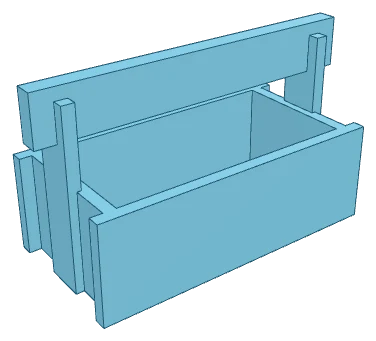
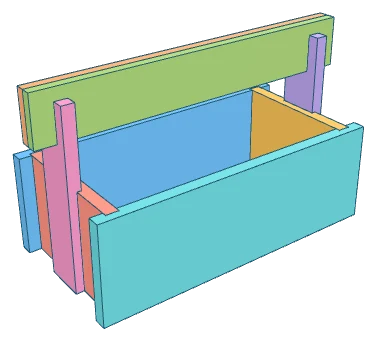
Preserve individual tote piece colors in the CAD viewer

diff --git a/src/components/cad/ParametricControls.tsx b/src/components/cad/ParametricControls.tsx
@@ -1,6 +1,7 @@
 import { useEffect, useRef, useState } from 'react';
 import type { CadEntry } from '../../misc';
 import { compileJob } from './compiler';
+import type { CompiledModel } from './compiler.worker';
 import { configuredSource, defaults, parameterLabel, parseParameters, type Parameter, type Values } from './parameters';
 
 type Entry = CadEntry & { href: string; source: string };
@@ -8,7 +9,7 @@ interface Source { text: string; parameters: Parameter[] }
 interface Result { values: Values; stl: string; source: string; output: string }
 
 export default function ParametricControls({ entry, available, onCompiled }: {
-  entry: Entry; available: boolean; onCompiled: (stl: ArrayBuffer) => void;
+  entry: Entry; available: boolean; onCompiled: (model: CompiledModel) => void;
 }) {
   const [source, setSource] = useState<Source | null>(null);
   const [draft, setDraft] = useState<Values>({});
@@ -16,12 +17,14 @@ export default function ParametricControls({ entry, available, onCompiled }: {
   const [phase, setPhase] = useState('Loading parameters…');
   const [error, setError] = useState('');
   const [retry, setRetry] = useState(0);
+  const [initialModel, setInitialModel] = useState<CompiledModel | null>(null);
   const job = useRef<AbortController | null>(null);
   const draftValues = useRef<Values>({});
   const edited = useRef(false);
   const sourceUrl = `${entry.href}${entry.source}`;
   const modelUrl = `${entry.href}${entry.model}`;
   const outputLabel = entry.customizer?.outputLabel;
+  const hasParts = !!entry.customizer?.parts?.length;
 
   useEffect(() => {
     const controller = new AbortController();
@@ -40,11 +43,12 @@ export default function ParametricControls({ entry, available, onCompiled }: {
         // Entries with textual output also compute their default cut list in the
         // worker. The committed fallback mesh stays visible while this runs.
         let output = '';
-        if (outputLabel) {
+        if (outputLabel || hasParts) {
           const compiled = await compileJob({ kind: 'compile', source: text }, controller.signal);
           controller.signal.throwIfAborted();
           if (compiled.kind !== 'model') return;
           output = compiled.output;
+          setInitialModel(compiled);
         }
         setSource({ text, parameters });
         draftValues.current = values;
@@ -60,7 +64,14 @@ export default function ParametricControls({ entry, available, onCompiled }: {
     };
     void load();
     return () => { controller.abort(); job.current?.abort(); };
-  }, [sourceUrl, modelUrl, outputLabel, retry]);
+  }, [sourceUrl, modelUrl, outputLabel, hasParts, retry]);
+
+  useEffect(() => {
+    if (!available || !initialModel) return;
+    try { onCompiled(initialModel); }
+    catch (failure) { setError(failure instanceof Error ? failure.message : 'The colored model could not load.'); }
+    setInitialModel(null);
+  }, [available, initialModel, onCompiled]);
 
   useEffect(() => () => {
     if (result?.stl.startsWith('blob:')) URL.revokeObjectURL(result.stl);
@@ -99,7 +110,7 @@ export default function ParametricControls({ entry, available, onCompiled }: {
         if (!controller.signal.aborted) setPhase('Updating model…');
       });
       if (controller.signal.aborted || compiled.kind !== 'model') return;
-      onCompiled(compiled.stl);
+      onCompiled(compiled);
       setResult({ values: { ...values },
         stl: URL.createObjectURL(new Blob([compiled.stl], { type: 'model/stl' })),
         source: URL.createObjectURL(new Blob([text], { type: 'text/plain' })),

diff --git a/src/components/cad/displayMesh.ts b/src/components/cad/displayMesh.ts
@@ -1,0 +1,51 @@
+import { BufferAttribute, BufferGeometry, Color, SRGBColorSpace } from 'three';
+import type { PartColor } from '../../misc';
+
+interface Group { start: number; count: number; color: number[]; mode: string }
+export interface DisplayMesh { positions: Float32Array; normals: Float32Array; groups: Group[] }
+
+// The engine's preview ranges count vertices, not floats or triangles. Keep
+// these separate from the boolean-unioned mesh used for STL downloads.
+export function displayMesh(positions: Float32Array, normals: Float32Array, json: string): DisplayMesh | undefined {
+  if (!positions.length) return;
+  const groups: unknown = JSON.parse(json);
+  let end = 0;
+  if (positions.length % 9 || normals.length !== positions.length ||
+      !positions.every(Number.isFinite) || !normals.every(Number.isFinite) ||
+      !Array.isArray(groups) || !groups.length || !groups.every((group: unknown) => {
+        if (typeof group !== 'object' || !group ||
+            !('start' in group) || group.start !== end ||
+            !('count' in group) || typeof group.count !== 'number' || !Number.isInteger(group.count) || group.count <= 0 || group.count % 3 ||
+            !('mode' in group) || group.mode !== 'solid' ||
+            !('color' in group) || !Array.isArray(group.color) || group.color.length !== 4 ||
+            !group.color.every((value: unknown) => typeof value === 'number' && Number.isFinite(value) && value >= 0 && value <= 1) || group.color[3] !== 1) return false;
+        end += group.count;
+        return true;
+      }) || end * 3 !== positions.length) throw new Error('Unsupported colored model geometry.');
+  return { positions, normals, groups: groups as Group[] };
+}
+
+export function coloredGeometry(display: DisplayMesh, palette: PartColor[] = []) {
+  const geometry = new BufferGeometry();
+  geometry.setAttribute('position', new BufferAttribute(display.positions, 3));
+  geometry.setAttribute('normal', new BufferAttribute(display.normals, 3));
+  const light = new Float32Array(display.positions.length);
+  const dark = new Float32Array(display.positions.length);
+  for (const group of display.groups) {
+    const base = new Color().setRGB(group.color[0], group.color[1], group.color[2], SRGBColorSpace);
+    // Match source RGB after the engine's float conversion.
+    const part = palette.find(({ color }) => {
+      const candidate = new Color(color);
+      return Math.abs(candidate.r - base.r) + Math.abs(candidate.g - base.g) + Math.abs(candidate.b - base.b) < 0.0001;
+    });
+    const night = part ? new Color(part.darkColor) : base;
+    for (let vertex = group.start; vertex < group.start + group.count; vertex++) {
+      base.toArray(light, vertex * 3);
+      night.toArray(dark, vertex * 3);
+    }
+  }
+  geometry.setAttribute('colorLight', new BufferAttribute(light, 3));
+  geometry.setAttribute('colorDark', new BufferAttribute(dark, 3));
+  geometry.setAttribute('color', geometry.getAttribute('colorLight'));
+  return geometry;
+}

diff --git a/src/components/cad/CadViewer.tsx b/src/components/cad/CadViewer.tsx
@@ -1,8 +1,10 @@
-import { useEffect, useRef, useState } from 'react';
+import { useCallback, useEffect, useRef, useState, type CSSProperties } from 'react';
 import { STLLoader } from 'three/addons/loaders/STLLoader.js';
 import type { CadEntry } from '../../misc';
 import { createScene, type RenderMode, type SectionAxis } from './scene';
 import ParametricControls from './ParametricControls';
+import { coloredGeometry } from './displayMesh';
+import type { CompiledModel } from './compiler.worker';
 import './cad.css';
 
 type Viewer = ReturnType<typeof createScene>;
@@ -68,13 +70,13 @@ export default function CadViewer({ entry }: { entry: CadEntry & { href: string 
     setFlipped(false);
     viewer?.reset();
   };
-  const onCompiled = (stl: ArrayBuffer) => {
+  const onCompiled = useCallback((model: CompiledModel) => {
     if (!viewer) throw new Error('The 3D view is unavailable.');
-    const geometry = new STLLoader().parse(stl);
+    const geometry = model.display ? coloredGeometry(model.display, entry.customizer?.parts) : new STLLoader().parse(model.stl);
     try { viewer.replaceGeometry(geometry); }
     catch (error) { geometry.dispose(); throw error; }
     setRevision((revision) => revision + 1);
-  };
+  }, [viewer, entry.customizer?.parts]);
 
   return (
     <section className="cad" aria-label="CAD model">
@@ -120,6 +122,11 @@ export default function CadViewer({ entry }: { entry: CadEntry & { href: string 
             </div>}
           </fieldset>
           {viewer && <p className="cad-dimensions">Bounds: {viewer.size.x.toFixed(1)} × {viewer.size.y.toFixed(1)} × {viewer.size.z.toFixed(1)} mm (X × Y × Z)</p>}
+          {entry.customizer?.parts && <ul className="cad-part-key" aria-label="Part colors">
+            {entry.customizer.parts.map((part) => <li key={part.id}>
+              <i className="cad-part-swatch" aria-hidden="true" style={{ '--part-color': part.color, '--part-dark-color': part.darkColor } as CSSProperties} />{part.label}
+            </li>)}
+          </ul>}
           {!entry.customizer && <div className="cad-downloads">
             <a href={modelUrl} download>Download STL ↓</a>
             {entry.source && <a href={`${entry.href}${entry.source}`} download>OpenSCAD source ↓</a>}

diff --git a/src/misc.ts b/src/misc.ts
@@ -10,6 +10,8 @@ interface DiagramEntry extends EntryBase {
   type?: 'diagram';
 }
 
+export interface PartColor { id: string; label: string; color: string; darkColor: string }
+
 export interface CadEntry extends EntryBase {
   type: 'cad';
   model: string;
@@ -19,6 +21,7 @@ export interface CadEntry extends EntryBase {
   customizer?: {
     units?: 'mm' | 'inches';
     outputLabel?: string;
+    parts?: PartColor[];
     conditions?: Record<string, { parameter: string; value: string | number | boolean }>;
   };
   attribution?: { text: string; url: string };
@@ -33,6 +36,13 @@ function validCustomizer(value: unknown): boolean {
   if ('units' in value && value.units !== undefined && value.units !== 'mm' && value.units !== 'inches') return false;
   if ('outputLabel' in value && value.outputLabel !== undefined &&
       (typeof value.outputLabel !== 'string' || !value.outputLabel.trim())) return false;
+  if ('parts' in value && value.parts !== undefined &&
+      (!Array.isArray(value.parts) || !value.parts.every((part: unknown) =>
+        typeof part === 'object' && part !== null &&
+        'id' in part && typeof part.id === 'string' && /^[a-z0-9-]+$/.test(part.id) &&
+        'label' in part && typeof part.label === 'string' && !!part.label.trim() &&
+        'color' in part && typeof part.color === 'string' && /^#[0-9a-f]{6}$/i.test(part.color) &&
+        'darkColor' in part && typeof part.darkColor === 'string' && /^#[0-9a-f]{6}$/i.test(part.darkColor)))) return false;
   if (!('conditions' in value) || value.conditions === undefined) return true;
   if (typeof value.conditions !== 'object' || value.conditions === null) return false;
   return Object.entries(value.conditions).every(([name, condition]: [string, unknown]) =>

diff --git a/src/components/cad/compiler.worker.ts b/src/components/cad/compiler.worker.ts
@@ -1,10 +1,12 @@
 import init, { parameters, render } from 'openrscad-engine/web';
 import wasmUrl from 'openrscad-engine/openrscad_bg.wasm?url';
 import { binaryStl } from './stl';
+import { displayMesh, type DisplayMesh } from './displayMesh';
 
 export interface CompileRequest { kind: 'parameters' | 'compile'; source: string }
+export interface CompiledModel { kind: 'model'; stl: ArrayBuffer; output: string; display?: DisplayMesh }
 export type CompileResponse = { kind: 'ready' } | { kind: 'parameters'; json: string } |
-  { kind: 'model'; stl: ArrayBuffer; output: string } | { kind: 'error'; message: string };
+  CompiledModel | { kind: 'error'; message: string };
 
 // Use the published raw API: 0.14.0's convenience wrapper has a mismatched
 // render_with_files signature. A fresh worker bounds each job's WASM memory.
@@ -23,7 +25,8 @@ self.onmessage = async ({ data }: MessageEvent<CompileRequest>) => {
       if (result.warnings) throw new Error(result.warnings);
       if (result.is_2d) throw new Error('This viewer requires a solid 3D model.');
       const stl = binaryStl(result.positions, result.normals);
-      self.postMessage({ kind: 'model', stl, output: result.echo } satisfies CompileResponse, { transfer: [stl] });
+      const display = displayMesh(result.preview_positions, result.preview_normals, result.groups);
+      self.postMessage({ kind: 'model', stl, output: result.echo, display } satisfies CompileResponse, { transfer: [stl] });
     } finally {
       result.free();
     }

diff --git a/src/components/cad/scene.ts b/src/components/cad/scene.ts
@@ -93,7 +93,11 @@ export function createScene(host: HTMLElement, geometry: THREE.BufferGeometry) {
 
   const setTheme = () => {
     const style = getComputedStyle(host);
-    solidMaterial.color.set(style.getPropertyValue('--cad-body').trim());
+    const colored = geometry.hasAttribute('colorLight');
+    solidMaterial.vertexColors = colored;
+    if (colored) geometry.setAttribute('color', geometry.getAttribute(document.documentElement.classList.contains('dark') ? 'colorDark' : 'colorLight'));
+    solidMaterial.color.set(colored ? '#ffffff' : style.getPropertyValue('--cad-body').trim());
+    solidMaterial.needsUpdate = true;
     edgeMaterial.color.set(style.getPropertyValue('--cad-edge').trim());
     capMaterial.color.set(style.getPropertyValue('--cad-section').trim());
     render();
@@ -166,6 +170,7 @@ export function createScene(host: HTMLElement, geometry: THREE.BufferGeometry) {
     controls.minDistance = radius * 0.25;
     controls.maxDistance = radius * 15;
     // Preserve camera/pan/zoom; section percentage follows the new model bounds.
+    setTheme();
     setSettings(settings);
   };
   let previousWidth = 0;

diff --git a/src/components/cad/cad.css b/src/components/cad/cad.css
@@ -77,3 +77,7 @@
   .cad-workbench .cad-viewer { position: static; }
   .cad-parameters { border-left: 0; padding-left: 0; }
 }
+.cad-part-key { display: grid; grid-template-columns: repeat(2, minmax(0, 1fr)); gap: 10px 16px; margin: 20px 0; font-size: 11px; }
+.cad-part-key li { display: flex; gap: 8px; align-items: center; }
+.cad-part-swatch { display: inline-block; flex-shrink: 0; width: 12px; height: 12px; border: 1px solid rgb(0 0 0 / 20%); background: var(--part-color); }
+.dark .cad-part-swatch { background: var(--part-dark-color); }

diff --git a/MISC.md b/MISC.md
@@ -96,3 +96,5 @@ The compiler rejects errors, warnings, degraded geometry, and empty/2D output. A
 The STL download is encoded directly from the successful triangle soup, before viewer centering or clipping. The configured SCAD download is the exact source used for that render, with public literal assignments replaced and model logic/comments/attribution intact. The original source remains unchanged and downloadable. Self-contained sources with scalar literal defaults are supported; include/use libraries and imported assets require explicitly adding their dependencies to the compilation workflow before enabling a customizer.
 
 Run `bun test tests/cad.test.mjs` for schema/precision, source serialization, geometry changes across all four groups and slope modes, source assertion failures, closed-mesh checks, and default bounds/volume equivalence against the original OpenSCAD export. Browser acceptance also covers pending downloads, cancellation/stale jobs, failure recovery, reset, preserved viewing state, both themes, responsive controls, and compilation from a production build. When upgrading the engine, rerun these comparisons against the original export rather than assuming language compatibility.
+
+Optional `customizer.parts` lists `{ id, label, color, darkColor }` entries with six-digit hex colors. Match each `color` to that physical piece's SCAD `color()` value; the viewer uses its paired `darkColor` in dark mode and labels both in a legend. These entries also compile on initial load to replace the fallback STL with colored geometry. Display uses OpenRSCAD's validated preview groups, whose ranges count vertices; the unioned solid remains the source for STL downloads. Assembly, exploded, individual-part, and clipped joint-detail views retain their source colors. The tote has ten distinct piece colors, including its two handle laminations and two bookmatched bottom halves. Section caps retain the separate cut-surface color.
